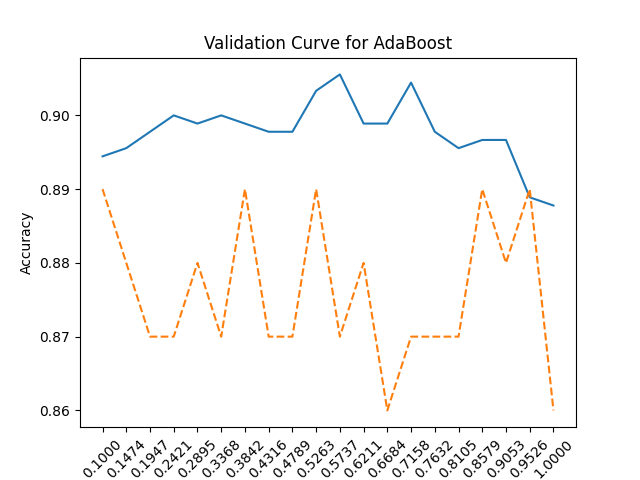
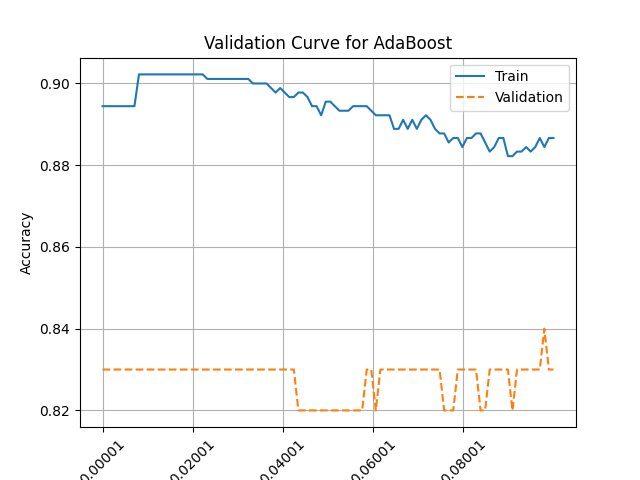
readme

diff --git a/adaB_validationCurve_learning_rate.py b/adaB_validationCurve_learning_rate.py
@@ -11,8 +11,8 @@ import matplotlib.pyplot as plt
 import numpy as np
 import random
 
-random.seed(26)
-np.random.seed(26)
+random.seed(30)
+np.random.seed(30)
 
 online_shoppers_purchasing_intention_dataset = fetch_ucirepo(id=468) 
   
@@ -26,15 +26,15 @@ X = X[:1000]
 y = y[:1000]
 X = pd.get_dummies(X, columns=['Month', 'VisitorType'])
  
-X_train, X_test, y_train, y_test = train_test_split(X, y, test_size=0.1, random_state=42, stratify=y)
+X_train, X_test, y_train, y_test = train_test_split(X, y, test_size=0.1, random_state=30, stratify=y)
 n_estimators_range = range(1, 151)
-learning_rate_range = np.linspace(0.00001, 1.0, 100)  
-
+# learning_rate_range = np.linspace(0.00001, 1.0, 100)  
+learning_rate_range = np.linspace(0.00001, 0.1, 100)  
 train_scores = []
 val_scores = []
 
 for learning_rate in learning_rate_range:
-    ada_model = AdaBoostClassifier(learning_rate = learning_rate, random_state=42)
+    ada_model = AdaBoostClassifier(learning_rate = learning_rate, random_state=30)
 
     train_score = cross_val_score(ada_model, X_train, y_train, cv=5).mean()
     train_scores.append(train_score)
@@ -49,11 +49,13 @@ plt.plot(learning_rate_range, val_scores, label='Validation', linestyle='--')
 # plt.xticks(5)
 plt.xticks(rotation=45) 
 import numpy as np
-plt.xticks(np.arange(min(learning_rate_range), max(learning_rate_range), 0.2))
-plt.ylim(0.82,0.95)
+# plt.xticks(np.arange(min(learning_rate_range), max(learning_rate_range), 0.2))
+plt.xticks(np.arange(min(learning_rate_range), max(learning_rate_range), 0.02))
+# plt.ylim(0.82,0.95)
 plt.xlabel('learning rate')
 plt.ylabel('Accuracy')
+plt.grid()
 plt.title('Validation Curve for AdaBoost')
-plt.legend(loc='upper left')
-plt.savefig("Validation Curve for AdaBoost (learning_rate_1).png")
+plt.legend()
+plt.savefig("Validation Curve for AdaBoost (learning_rate).png")
 plt.show()

diff --git a/adaB_validationCurve_n_estimators.py b/adaB_validationCurve_n_estimators.py
@@ -10,8 +10,8 @@ from sklearn.model_selection import train_test_split, cross_val_score
 import matplotlib.pyplot as plt
 import numpy as np
 import random
-random.seed(26)
-np.random.seed(26)
+random.seed(30)
+np.random.seed(30)
 online_shoppers_purchasing_intention_dataset = fetch_ucirepo(id=468) 
   
 X = online_shoppers_purchasing_intention_dataset.data.features 
@@ -24,14 +24,14 @@ X = X[:1000]
 y = y[:1000]
 X = pd.get_dummies(X, columns=['Month', 'VisitorType'])
  
-X_train, X_test, y_train, y_test = train_test_split(X, y, test_size=0.1, random_state=42, stratify=y)
-n_estimators_range = range(1, 151)
+X_train, X_test, y_train, y_test = train_test_split(X, y, test_size=0.1, random_state=30, stratify=y)
+n_estimators_range = range(1, 1001)
 
 train_scores = []
 val_scores = []
 
 for n_estimators in n_estimators_range:
-    ada_model = AdaBoostClassifier(n_estimators=n_estimators, random_state=42)
+    ada_model = AdaBoostClassifier(n_estimators=n_estimators, random_state=30)
 
     train_score = cross_val_score(ada_model, X_train, y_train, cv=5).mean()
     train_scores.append(train_score)
@@ -49,5 +49,5 @@ plt.xlabel('n_estimators')
 plt.ylabel('Accuracy')
 plt.title('Validation Curve for AdaBoost')
 plt.legend()
-plt.savefig("Validation Curve for AdaBoost (n_estimators).png")
+plt.savefig("Validation Curve for AdaBoost (n_estimators_1).png")
 plt.show()

diff --git a/rF_validationCurve_min_samples_split.py b/rF_validationCurve_min_samples_split.py
@@ -11,8 +11,8 @@ import matplotlib.pyplot as plt
 import numpy as np
 import random
 
-random.seed(26)
-np.random.seed(26)
+random.seed(30)
+np.random.seed(30)
 # fetch dataset 
 online_shoppers_purchasing_intention_dataset = fetch_ucirepo(id=468) 
   
@@ -27,15 +27,16 @@ X = X[:1000]
 y = y[:1000]
 X = pd.get_dummies(X, columns=['Month', 'VisitorType'])
  
-X_train, X_test, y_train, y_test = train_test_split(X, y, test_size=0.1, random_state=42, stratify=y)
 
-min_samples_split_range = range(2, 21)
+min_samples_split_range = range(2, 41)
 
 train_scores = []
 val_scores = []
 
 for min_samples_split in min_samples_split_range:
-    rf_model = RandomForestClassifier(min_samples_split=min_samples_split, random_state=42)
+    X_train, X_test, y_train, y_test = train_test_split(X, y, test_size=0.1, random_state=30, stratify=y)
+    
+    rf_model = RandomForestClassifier(min_samples_split=min_samples_split, random_state=30)
 
     train_score = cross_val_score(rf_model, X_train, y_train, cv=5).mean()
     train_scores.append(train_score)

diff --git a/rF_validationCurve_n_estimators.py b/rF_validationCurve_n_estimators.py
@@ -11,8 +11,8 @@ import matplotlib.pyplot as plt
 import numpy as np
 import random
 
-random.seed(26)
-np.random.seed(26)
+random.seed(30)
+np.random.seed(30)
 
 # fetch dataset 
 online_shoppers_purchasing_intention_dataset = fetch_ucirepo(id=468) 
@@ -27,14 +27,14 @@ X = X[:1000]
 y = y[:1000]
 X = pd.get_dummies(X, columns=['Month', 'VisitorType'])
  
-X_train, X_test, y_train, y_test = train_test_split(X, y, test_size=0.1, random_state=42, stratify=y)
+X_train, X_test, y_train, y_test = train_test_split(X, y, test_size=0.1, random_state=30, stratify=y)
 n_estimators_range = range(1, 251)
 
 train_scores = []
 val_scores = []
 
 for n_estimators in n_estimators_range:
-    rf_model = RandomForestClassifier(n_estimators=n_estimators, random_state=42)
+    rf_model = RandomForestClassifier(n_estimators=n_estimators, random_state=30)
 
     train_score = cross_val_score(rf_model, X_train, y_train, cv=5).mean()
     train_scores.append(train_score)

diff --git a/rF_validationCurve_max_depth.py b/rF_validationCurve_max_depth.py
@@ -11,8 +11,8 @@ import matplotlib.pyplot as plt
 import numpy as np
 import random
 
-random.seed(26)
-np.random.seed(26)
+random.seed(30)
+np.random.seed(30)
 
 online_shoppers_purchasing_intention_dataset = fetch_ucirepo(id=468) 
   
@@ -26,7 +26,6 @@ X = X[:1000]
 y = y[:1000]
 X = pd.get_dummies(X, columns=['Month', 'VisitorType'])
  
-X_train, X_test, y_train, y_test = train_test_split(X, y, test_size=0.1, random_state=42, stratify=y)
 
 max_depth_range = range(1, 51)
 
@@ -34,7 +33,9 @@ train_scores = []
 val_scores = []
 
 for max_depth in max_depth_range:
-    rf_model = RandomForestClassifier(max_depth=max_depth, random_state=42)
+    X_train, X_test, y_train, y_test = train_test_split(X, y, test_size=0.1, random_state=30, stratify=y)
+
+    rf_model = RandomForestClassifier(max_depth=max_depth, random_state=30)
 
     train_score = cross_val_score(rf_model, X_train, y_train, cv=5).mean()
     train_scores.append(train_score)

diff --git a/README.md b/README.md
@@ -22,7 +22,13 @@
 ---
 
 ## Abstract
-Provide a brief summary of your project, including the problem tackled, the methodology used, and the key findings. This section should be concise and no more than 150-200 words.
+This project aimed to predict online shopping purchasing intentions by analyzing customer browsing patterns. Utilizing a dataset from the UCI Machine Learning Repository, we employed ensemble learning methods, specifically Random Forest and AdaBoost, to identify key factors influencing purchase decisions and to develop accurate predictive models. Our methodology involved data preprocessing, hyperparameter tuning using techniques like GridSearchCV, and model evaluation through train-test splits and cross-validation. We used Python packages such as pandas, scikit-learn, and matplotlib for data manipulation, model training, and visualization.
+
+Key Findings:
+
+1. Model Performance: Both Random Forest and AdaBoost demonstrated high accuracy, with Random Forest showing a slight edge in precision and AdaBoost in recall and F1 Score.
+2. Hyperparameter Tuning: For AdaBoost, an optimal range for n_estimators was found to be between 200 and 400, and a learning rate of around 0.02. Random Forest benefits from around 45 n_estimators, a min_samples_split of 12 to 17, and a max_depth of 6 to 16.
+3.Feature Importance: PageValues, ExitRates, and ProductRelated_Duration were identified as the most influential features in predicting purchasing intentions.
 
 
 ---
@@ -56,32 +62,35 @@ This project focuses on the following tasks:
 ---
 
 ## Related Work
-Summarize prior research or existing methods related to your project. Include citations or links to relevant papers, tools, or datasets. Discuss how your work builds upon or differs from these efforts.
+- In "Explaining the Success of AdaBoost and Random Forests as Interpolating Classifiers", Wyner et al. offer a theoretical explanation for the success of AdaBoost and Random Forests. It suggests that both algorithms work well due to their ability to interpolate the training data completely without error, combined with a self-averaging property that leads to low generalization error. The paper challenges conventional wisdom about the need for regularization or early stopping in boosting algorithms and proposes using AdaBoost like Random Forests, with large decision trees and without regularization or early stopping. This inspired us to use both Random Forests and AdaBoost to evaluate the Online Shopping Purrchasing Intention dataset.
 
+- The paper "Hyperparameters and Tuning Strategies for Random Forest" written by Probst et al. introduces model-based optimization (MBO) as an effective tuning strategy and presents the tuneRanger R package to automate this process. Benchmark studies demonstrate the improved prediction performance and efficiency of tuneRanger compared to default settings and other tuning methods. The paper emphasizes the importance of tuning hyperparameters like n_estimators (the number of trees), max_features (variables drawn for each split), min_samples_split (minimum samples for a node to split), and min_samples_leaf (minimum samples in a leaf node) for optimizing Random Forest performance. It confirms that while Random Forests perform well with default settings, hyperparameter tuning can further enhance model accuracy. Therefore, we decided to include n_estimators, max_features, and min_samples_split tuning for hyper parameter tuning.
 ---
 
 ## Data Description
 Describe the dataset(s) you used, including:
-- **Source(s)**: Where the data came from (e.g., Kaggle, UCI ML Repository, custom dataset).
-- **Size and Format**: Number of rows, features, and data types.
-- **Preprocessing**: Steps taken to clean or transform the data, including handling missing values or feature engineering.
+- **Source(s)**: 
+The dataset in question is sourced from the UCI Machine Learning Library
+, as mentioned by its creators, C. Okan Sakar from the Department of Computer Engineering, Bahcesehir University, and Yomi Kastro from Inveon Information Technologies Consultancy and Trade
+. It is specifically designed for the subject area of business and is associated with tasks such as classification and clustering.
+
+- **Size and Format**: The dataset is available in a CSV format, which is a common structured data format that can be easily used for machine learning tasks. It consists of 12,330 instances, each representing a user session over a one-year period. There are 17 features in total, with 10 being numerical and 7 being categorical. The numerical features include metrics like 'Administrative Duration', 'Informational Duration', and 'ProductRelated Duration', which are derived from the URL information of the pages visited by the user. The categorical features include attributes such as 'Month', 'OperatingSystems', 'Browser', 'Region', 'TrafficType', 'VisitorType', and 'Weekend'
+.
+
+- **Preprocessing**: The dataset is clean and doesn't have any missing data.
+
+
+
 
 ---
 
 ## Methodology
-Outline your approach, including:
-1. The algorithms or models used (e.g., linear regression, neural networks, etc.).
-2. Details of the training process (e.g., train-test splits, cross-validation).
-3. Any hyperparameter tuning performed.
-4. Tools and libraries employed (e.g., scikit-learn, PyTorch).
+1. In our approach, we utilized two prominent ensemble learning algorithms, AdaBoost and Random Forest, to tackle classification tasks. We structured our training process with a meticulous train-test split to assess the model's performance on unseen data, and we also implemented cross-validation to bolster the reliability of our models. For hyperparameter tuning, we meticulously adjusted key parameters: for AdaBoost, we focused on n_estimators and learning_rate, while for Random Forest, we fine-tuned n_estimators, max_features, min_samples_split, and min_samples_leaf. We employed a variety of Python packages including ucimlrepo for dataset retrieval, pandas for data manipulation, scikit-learn for model training and evaluation, and matplotlib.pyplot for data visualization. Our analysis focused on the AdaBoostClassifier and RandomForestClassifier from scikit-learn to perform classification tasks, with numpy and random supporting numerical operations and randomization needs.
 
+2. We performed Model Comparision Based on Best Parameter Prediction, which applied Random Forest and AdaBoost algorithms to predict online shopping purchasing intentions, using a 90-10 train-test split and 5-fold cross-validation to ensure generalization. Hyperparameter tuning was performed with GridSearchCV to optimize model parameters, leveraging tools like scikit-learn, pandas, and Matplotlib for modeling and analysis.
 ---
 
 ## Results
-Present the results of your experiments, including:
-- Key metrics (e.g., accuracy, precision, recall, F1 score, etc.).
-- Comparisons between models or baselines.
-- Visualizations (e.g., plots, confusion matrices).
 
 ### Hyperparameter tuning
 
@@ -91,43 +100,47 @@ Here we will include the results for hyperparameter tuning for both AdaBoost and
 
 **n_estimators**
 
-The graph below shows the accuracy of the model on both the training and validation sets as the number of estimators increases. We varies n_estimators from 0 to 150. The training accuracy generally increases with more estimators at early stage, while the validation accuracy reaches a plateau and starts to fluctuate. This suggests that increasing the number of estimators beyond a certain point may lead to overfitting, as the model becomes too complex and starts to fit the noise in the training data. We suggests that setting n_estimators to be around 12 might be best. However, this might be influenced by the fact that we only use 1000 samples from the dataset.
+The AdaBoost validation curve demonstrates that as the number of estimators increases, the training accuracy initially remains high but then shows a slight downward trend, which is a common sign of the model becoming more complex and possibly overfitting. The validation accuracy, which is crucial for assessing the model's performance on new data, stays relatively consistent and does not significantly improve with additional estimators, indicating that the model is already generalizing well.
 
-![Alt text](https://github.com/Cecilia7717/project-ml/blob/main/Validation%20Curve%20for%20AdaBoost%20(n_estimators).png)
+However, there is a noticeable dip in validation accuracy at around 600 estimators, which could be an indication of overfitting or a point of instability. To avoid this and to maintain a good balance between bias and variance, a recommended number of estimators might be between late 200 and 400. This range seems to offer a stable and high validation accuracy, suggesting that the model is performing well without being overly complex.
+
+![Alt text](https://github.com/Cecilia7717/project-ml/blob/main/Validation%20Curve%20for%20AdaBoost%20(n_estimators_1).png)
 
 **learning rate**
 
-The plot shows the validation curve for an AdaBoost model as the learning rate increase from 0.1 to 1.
+The plot shows the validation curve for an AdaBoost model as the learning rate increase from 0.0001 to 1.
 
-The blue line represents the training accuracy, while the dashed orange line represents the validation accuracy. As the learning rate increases, the training accuracy generally improves, but the validation accuracy initially increases, reaches a peak around a learning rate of 0.53, and then starts to decline.
-This pattern suggests that a learning rate around 0.52 might be a good choice for this model. A higher learning rate can lead to overfitting, where the model becomes too sensitive to the training data and performs poorly on unseen data.
+The blue line represents the training accuracy, while the dashed orange line represents the validation accuracy. As the learning rate increases, the training accuracy generally improves, but the validation accuracy initially increases, reaches a peak around a learning rate of 0.53, and then starts to decline. This pattern suggests this may not be the right range for tuning best learning rate.
 
 ![Alt text](https://github.com/Cecilia7717/project-ml/blob/main/Validation%20Curve%20for%20AdaBoost%20(learning_rate_1).png)
+
+Therefore, we have the other experiment done, which focused on learning rate from 0.00001 to 0.1 with plot shown below. We can see that the training accuracy increases first, then remains a little bit above 0.90 for a while, and then drop. This suggests the best learning rate should be around 2e-2.
+
+![Alt text](https://github.com/Cecilia7717/project-ml/blob/main/Validation%20Curve%20for%20AdaBoost%20(learning_rate).png)
 
 #### Random Forest
 **n_estimators**
 
-The plot illustrates the validation curve for a Random Forest model, showcasing the impact of the number of n_estimators on both training and validation accuracy. As the number of n_estimators increases, the training accuracy steadily improves, while the validation accuracy initially increases and then stabilizes around a value of 0.88. This suggests that increasing the number of estimators beyond a certain point (around 50) provides diminishing returns in terms of validation accuracy. Therefore, a model with approximately 45 estimators might be a good balance between model complexity and generalization performance.
+The plot illustrates the validation curve for a Random Forest model, showcasing the impact of the number of n_estimators on both training and validation accuracy. As the number of n_estimators increases, the training accuracy steadily improves, while the validation accuracy initially increases and then stabilizes around a value a little bit higher than 0.88. This suggests that increasing the number of estimators beyond a certain point (around 50) provides diminishing returns in terms of validation accuracy. Therefore, a model with approximately 45 estimators might be a good balance between model complexity and generalization performance.
 
 ![Alt text](https://github.com/Cecilia7717/project-ml/blob/main/Validation%20Curve%20for%20Random%20Forest%20(n_estimators).png)
 
 **min_samples_split**
 
-The plot displays the validation curve for a Random Forest model, focusing on the min_samples_split hyperparameter. As min_samples_split increases, the training accuracy decreases while the validation accuracy initially improves but then fluctuates. A min_samples_split value around 12 seems to offer a good balance between overfitting and underfitting, but further tuning might be necessary.
+The plot displays the validation curve for a Random Forest model, focusing on the min_samples_split hyperparameter. The training accuracy remains relatively stable and high, around 0.89, indicating the model is learning well on the training data. In contrast, the validation accuracy fluctuates more and is generally lower, around 0.85 to 0.87, suggesting some overfitting.
+
+The best balance between bias and variance seems to occur around min_samples_split values of 12 to 17, where the validation accuracy peaks. A suggested value for min_samples_split could be in this range to achieve a good generalization performance on unseen data.
 
 ![Alt text](https://github.com/Cecilia7717/project-ml/blob/main/Validation%20Curve%20for%20Random%20Forest%20(min_samples_split).png)
 
 **max_depth**
 
-The figure shows the validation curve of the random forest model, illustrating the effect of max_depth on the training and validation accuracy. As max_depth increases, the training accuracy steadily increases and peaks around 20. However, the validation accuracy initially rises, peaks around the same max_depth value, and then begins to decline. This suggests a potential overfitting problem, where the model becomes too complex and begins to memorize the training data instead of generalizing to unseen data. max_depth values around 20 seem to be a good compromise between bias and variance.
+The Random Forest validation curve indicates that training accuracy rises sharply and then plateaus as max_depth increases, showing the model's robust learning on training data. In contrast, validation accuracy peaks at a max_depth of around 6, after which it declines, hinting at overfitting with deeper trees.
+
+Post the initial peak, validation accuracy levels off, maintaining a consistent, albeit lower, performance from max_depth of 16 onwards. This flattening suggests diminishing returns on increasing depth. A max_depth of 6 to 16 is thus optimal, balancing model complexity and generalization for the best validation accuracy.
 
 ![Alt text](https://github.com/Cecilia7717/project-ml/blob/main/Validation%20Curve%20for%20Random%20Forest%20(max_depth).png)
 
-**criterion**
-
-The plot illustrates the validation curve for a Random Forest model, comparing Gini impurity and Log Loss as splitting criteria. While Log Loss generally achieves higher training accuracy, Gini impurity often leads to better validation accuracy, suggesting a potential trade-off between model complexity and generalization.
-
-![Alt text](https://github.com/Cecilia7717/project-ml/blob/main/Validation%20Curve%20for%20Random%20Forest%20(criterion).png)
 
 ### Model Comparision Based on Best Parameter Prediction
 
@@ -190,16 +203,9 @@ The performance of the best-performing model, Random Forest, is summarized in a 
 
 The performance of the two models is summarized in their confusion matrices. For Random Forest, the model correctly identified 1009 instances where a purchase did not occur (True Negatives) and 102 instances where a purchase occurred (True Positives). However, there were 89 False Negatives, where actual purchases were missed, and 33 False Positives, where purchases were incorrectly predicted. These results indicate that while the model performs well in identifying non-purchases, it struggles with predicting purchase outcomes.
 
-
 ---
 
 ## Discussion
-Interpret your results:
-
-- What worked well?
-- What challenges or limitations did you encounter?
-- How do the results address your problem statement?
-
 
 ### What Worked Well
 - The ensemble learning models, Random Forest and AdaBoost, proved effective in predicting online shopping purchasing intentions. Both models demonstrated strong performance, with accuracies of approximately 90%. Random Forest excelled in precision, indicating its ability to minimize false positive predictions, while AdaBoost performed slightly better in recall and F1 Score, suggesting its strength in identifying actual purchasers. 
@@ -221,7 +227,7 @@ The results successfully address the problem statement by:
 
 ## Conclusion and Future Work
 
-Summarize the key findings and discuss potential extensions of your work. What would you do differently with more time or resources?
+This project successfully applied Random Forest and AdaBoost algorithms to predict online shopping purchasing intentions, achieving high accuracy and providing actionable insights into consumer behavior. Key features such as PageValues, ExitRates, and ProductRelated_Duration were identified as significant predictors of purchase outcomes. The findings suggest that ensemble learning methods are effective for e-commerce analytics, offering a balance between precision and recall that is crucial for business decision-making.
 
 ### Future Work
 To further enhance the findings:
@@ -229,9 +235,15 @@ To further enhance the findings:
 - Exploring additional ensemble methods or deep learning models might uncover new patterns and improve predictive accuracy.
 - Incorporating temporal or behavioral data could provide deeper insights into shopper behavior, especially for time-sensitive or recurring purchasing patterns.
 
-
 ---
 
 ## References
 
-Include any citations for datasets, tools, libraries, or papers used in your project. Use a consistent citation format.
+Friedman, J., Hastie, T., & Tibshirani, R. (2000). Additive logistic regression: a statistical view of boosting (with discussion and a rejoinder by the authors). The Annals of Statistics, 28(2), 337-407. Institute of Mathematical Statistics.
+
+Wyner, A., Olson, M., Bleich, J., & Mease D. (2017). Explaining the Success of AdaBoost and Random Forests as Interpolating Classifiers. DOI: https://doi.org/10.48550/arXiv.1504.07676
+
+Probst, P., Wright, M., & Boulesteix, A. (2019). Hyperparameters and Tuning Strategies for Random Forest. DOI: 
+https://doi.org/10.48550/arXiv.1804.03515
+
+Sakar, C., & Kastro, Y. (2018). Online Shoppers Purchasing Intention Dataset. UCI Machine Learning Repository. DOI: https://doi.org/10.24432/C5F88
